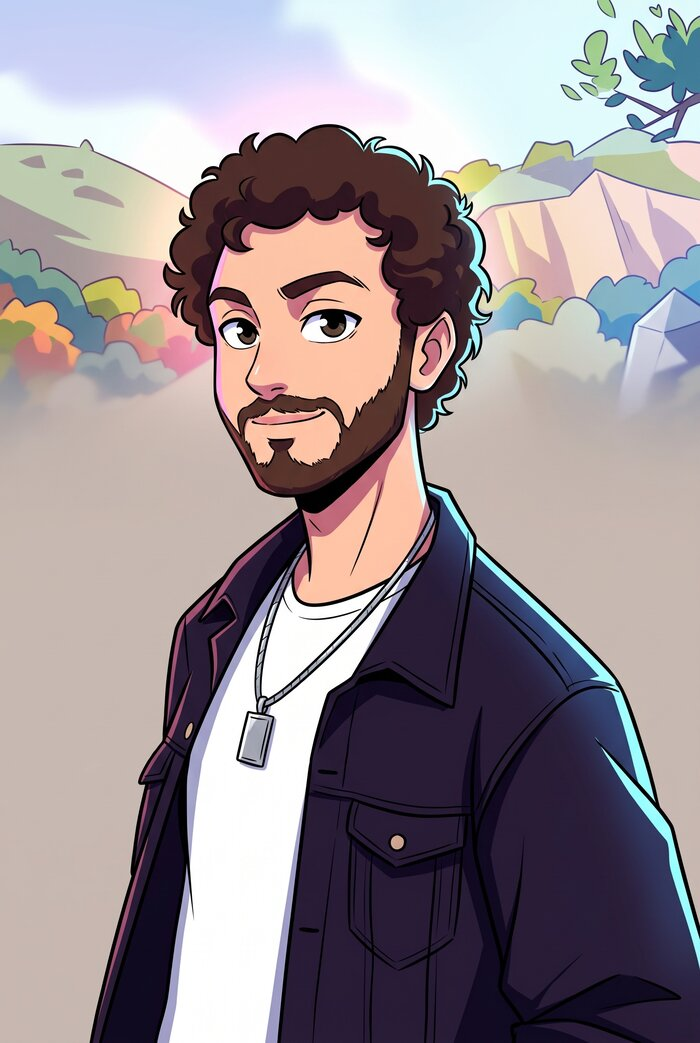
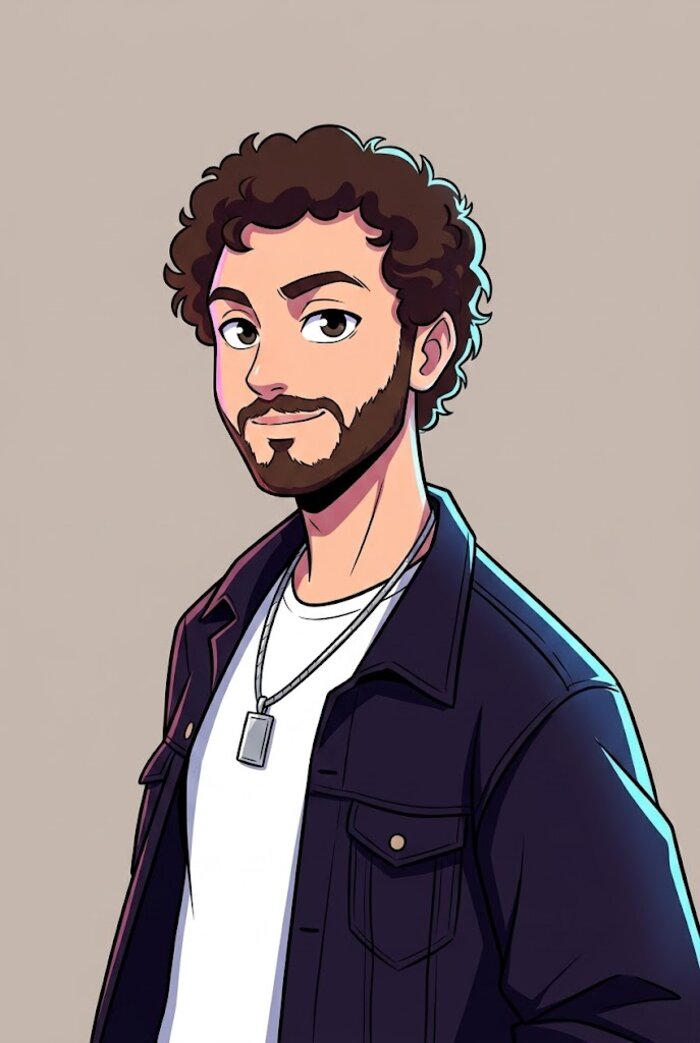
fix: proje kart taşması düzeltildi, SeatRush kaldırıldı, profil fotoğrafı güncellendi

diff --git a/src/components/ProjectsSection.vue b/src/components/ProjectsSection.vue
@@ -16,21 +16,6 @@ const filters = [
 const projects = [
   // Backend Projects
   {
-    id: 1,
-    title: 'SeatRush',
-    subtitle: 'High-Concurrency Ticket Booking Engine',
-    description: 'Solves race conditions using Redis distributed locks and SeaORM transactional integrity. Built for high-performance concurrent booking scenarios.',
-    category: 'backend',
-    tech: [
-      { name: 'Rust', icon: 'logos:rust' },
-      { name: 'Actix-Web', icon: 'simple-icons:actix' },
-      { name: 'Redis', icon: 'logos:redis' },
-      { name: 'SeaORM', icon: 'carbon:database' }
-    ],
-    github: 'https://github.com/firatege/seat_rush',
-    color: 'cyan'
-  },
-  {
     id: 2,
     title: 'BookingAPI-NestJS',
     subtitle: 'RESTful API with NestJS',
@@ -79,7 +64,7 @@ const projects = [
     id: 5,
     title: 'RAG for GTNH',
     subtitle: 'Hybrid Retrieval-Augmented Generation Pipeline',
-    description: 'Production-shaped RAG stack answering questions over ~130 unstructured PDFs + a scraped wiki. LLM-driven semantic chunking, local embeddings (transformers.js), pgvector + HNSW hybrid search (cosine + keyword in one query), context-window expansion, and Gemini-based query decomposition + grounded answer synthesis. Deployed live in a Minecraft server chat.',
+    description: 'Hybrid RAG pipeline over ~130 unstructured PDFs + a scraped wiki. LLM-driven semantic chunking, local embeddings, pgvector + HNSW hybrid search, context-window expansion, and query decomposition + grounded answer synthesis. Deployed live in a Minecraft server chat.',
     category: 'ai-data',
     tech: [
       { name: 'PostgreSQL/pgvector', icon: 'logos:postgresql' },
@@ -777,6 +762,19 @@ onMounted(() => {
   line-height: 1.6;
   margin-bottom: 1rem;
   flex: 1;
+  min-height: 0;
+  overflow-y: auto;
+  scrollbar-width: thin;
+  scrollbar-color: rgba(255, 255, 255, 0.4) transparent;
+}
+
+.overlay-description::-webkit-scrollbar {
+  width: 4px;
+}
+
+.overlay-description::-webkit-scrollbar-thumb {
+  background: rgba(255, 255, 255, 0.4);
+  border-radius: 2px;
 }
 
 .overlay-tech {
@@ -784,6 +782,7 @@ onMounted(() => {
   flex-wrap: wrap;
   gap: 0.35rem;
   margin-bottom: 1rem;
+  flex-shrink: 0;
 }
 
 .tech-tag {
@@ -812,6 +811,7 @@ onMounted(() => {
   text-decoration: none;
   transition: all 0.2s ease;
   margin-top: auto;
+  flex-shrink: 0;
 }
 
 .github-btn:hover {
